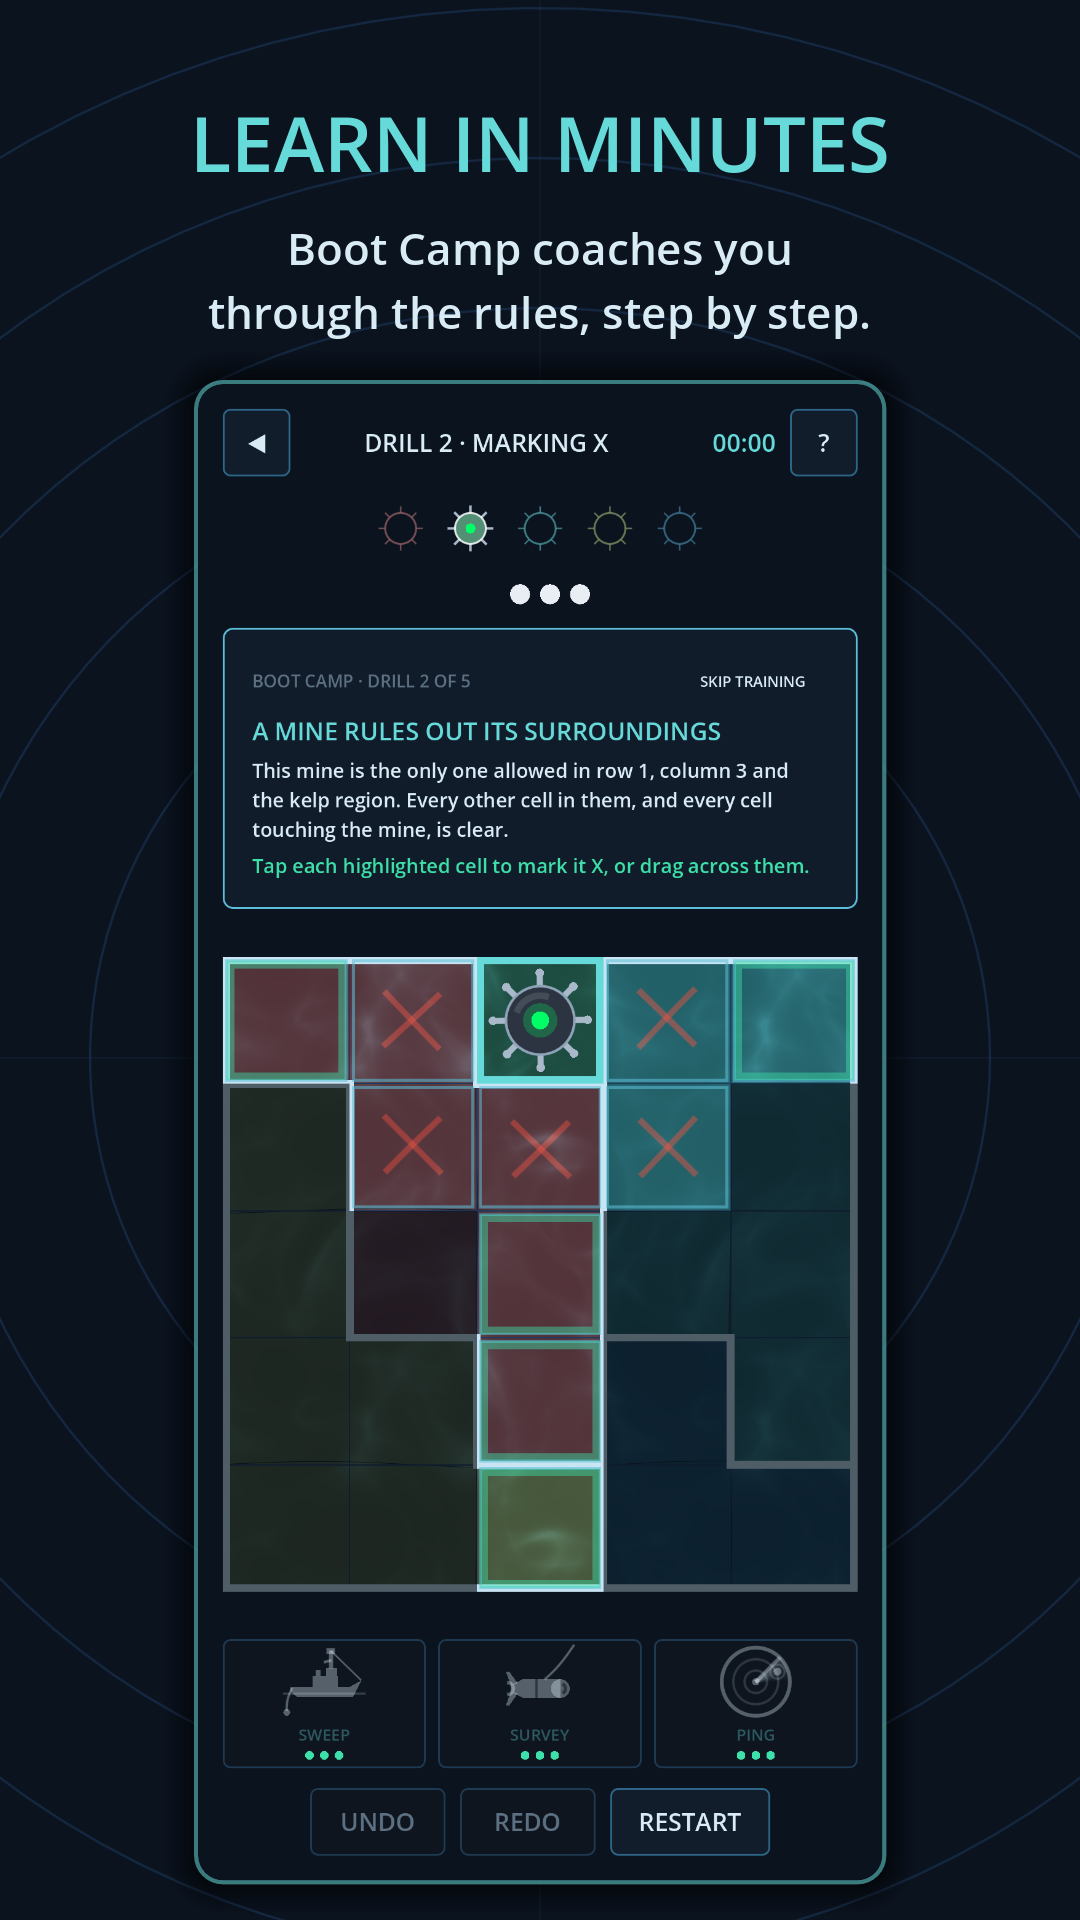
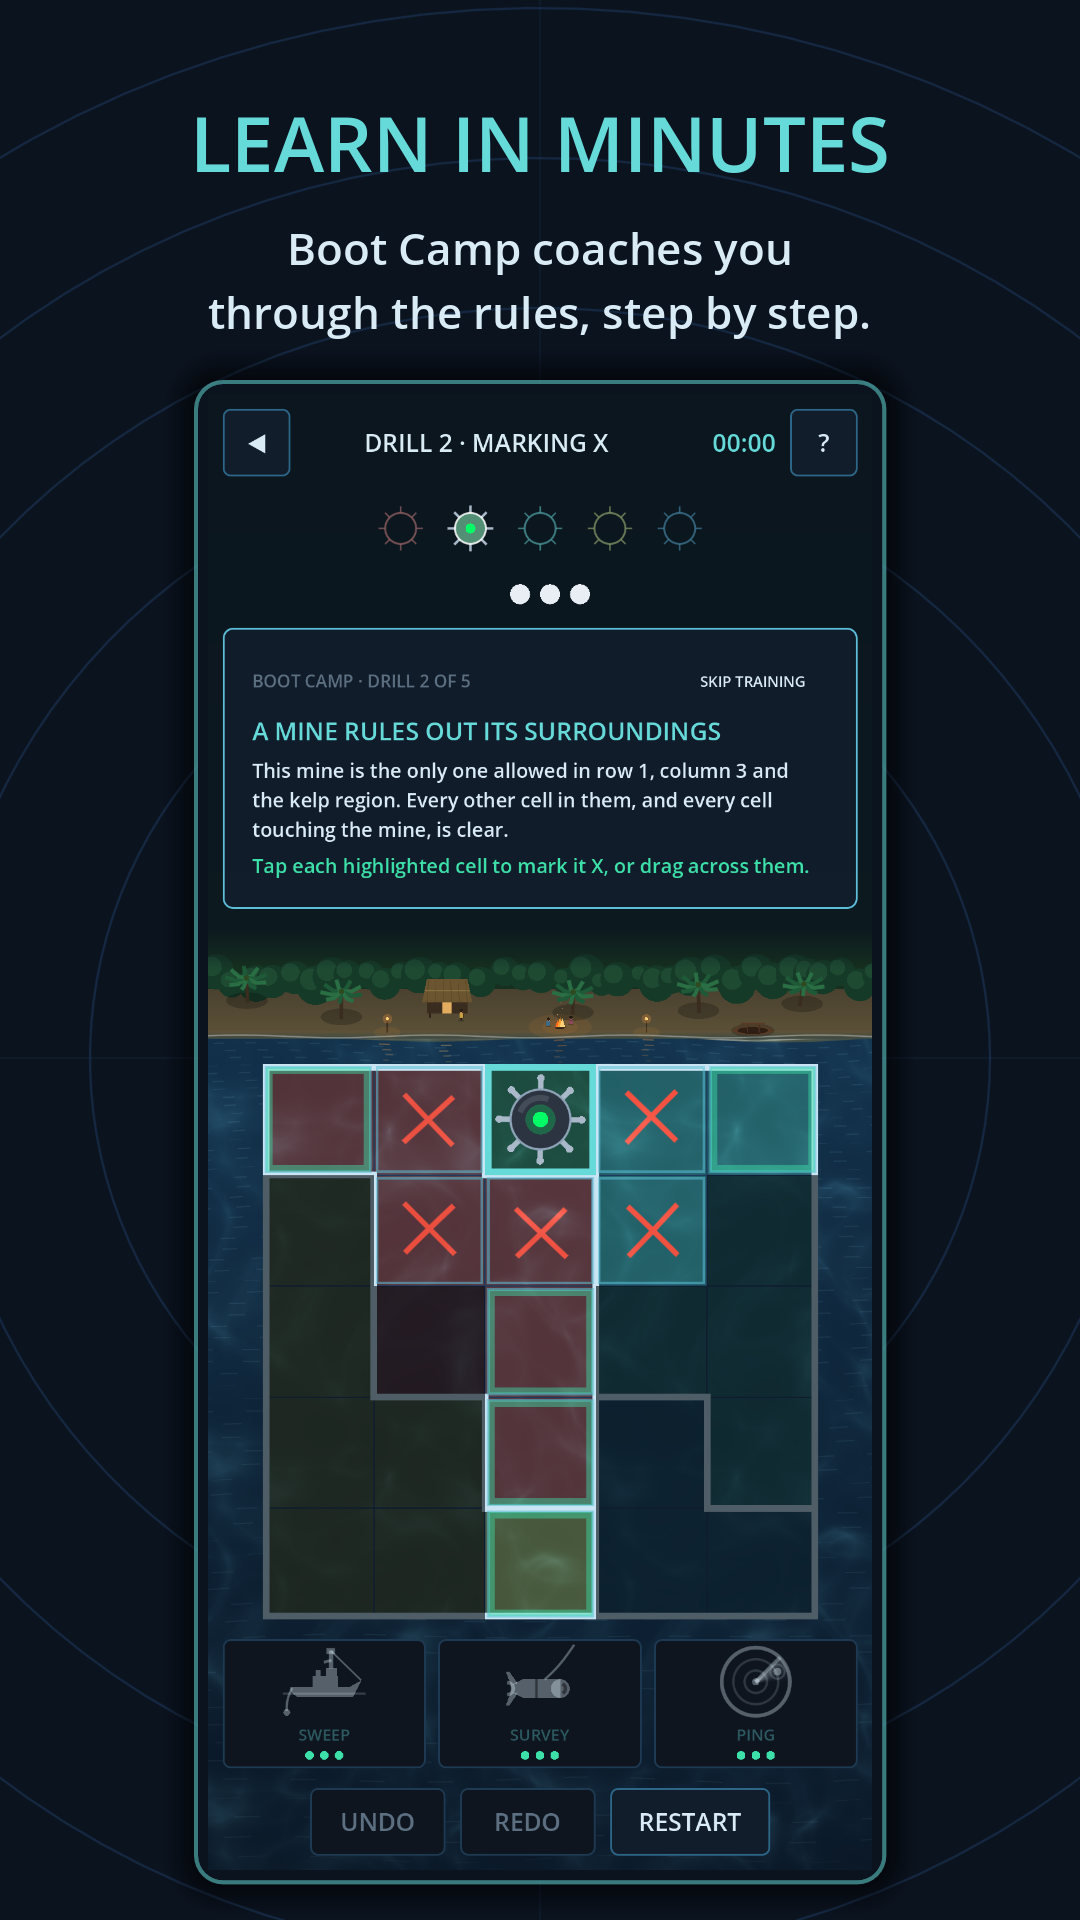
Mineoku: new screenshots and video; scenery, sector bonuses, streak fanfare, options

diff --git a/mineoku/index.html b/mineoku/index.html
@@ -36,7 +36,7 @@
     <h1>Mineoku</h1>
     <p class="meta">A naval minefield logic puzzle for Android. Free on Google Play.</p>
     <p class="actions"><a class="button" href="https://play.google.com/store/apps/details?id=com.baylandblue.mineoku">Get it on Google Play</a>
-    <a class="button secondary" href="https://www.youtube.com/shorts/0QLEgAbAkzE">Watch gameplay</a></p>
+    <a class="button secondary" href="https://www.youtube.com/shorts/_u4G1ZQ0tjI">Watch gameplay</a></p>
   </div>
 </div>
 
@@ -48,7 +48,7 @@ have to guess: each mine can be found by careful deduction.</p>
 <div class="shots">
   <img src="images/screenshot_1.png" alt="Pure logic, no guessing: an 8×8 board mid-solve, with mines placed and cells ruled out" width="1080" height="1920" loading="lazy">
   <img src="images/screenshot_2.png" alt="Stuck? Send a drone: SURVEY explains the next logical step" width="1080" height="1920" loading="lazy">
-  <img src="images/screenshot_3.png" alt="400 levels to clear: the win splash over a cleared board" width="1080" height="1920" loading="lazy">
+  <img src="images/screenshot_3.png" alt="400 levels to clear: the win splash over a cleared board, with ships along the coast" width="1080" height="1920" loading="lazy">
   <img src="images/screenshot_4.png" alt="Learn in minutes: a Boot Camp drill coaching the next move" width="1080" height="1920" loading="lazy">
   <img src="images/screenshot_5.png" alt="Earn three stars: the campaign map with stars earned" width="1080" height="1920" loading="lazy">
   <img src="images/screenshot_6.png" alt="A new board every day: the main menu" width="1080" height="1920" loading="lazy">
@@ -63,8 +63,9 @@ have to guess: each mine can be found by careful deduction.</p>
     <li>every <strong>region</strong> has exactly one mine, and</li>
     <li>no two mines <strong>touch</strong>, not even diagonally.</li>
   </ul>
-  <p>Mark the cells you've ruled out with an X. But careful: put an X on a real mine and it
-  goes off. You have three lives per board.</p>
+  <p>Mark the cells you've ruled out with an X, or drag along a row or column to mark several
+  at once. But careful: put an X on a real mine and it goes off. You have three lives per board.
+  A misplaced mine never costs a life; it just shows up in red when it breaks a rule.</p>
 </div>
 
 <h2>400 levels in five sectors</h2>
@@ -78,15 +79,19 @@ the shallows to the deep.</p>
   <tr><td>Deep Trench</td><td>226–325</td><td>9×9</td></tr>
   <tr><td>Abyssal Plain</td><td>326–400</td><td>10×10</td></tr>
 </table>
+<p>Each sector opens when you finish the one before it. Clearing a sector for the first time
+earns two bonus help charges, which can take you past the usual limit.</p>
 
 <h2>Daily Sonar Op and Free Play</h2>
 <p>A new board every day, the same for every player, growing from 7×7 early in the week to
-10×10 on Sunday, so keep your streak going. Or pick any size from 6×6 to 10×10 in Free Play
+10×10 on Sunday, so keep your streak going: reaching 5, 10, 25, 50 or 100 days in a row
+(and every 25 after that) sets off a fanfare. Or pick any size from 6×6 to 10×10 in Free Play
 for a fresh board whenever you like.</p>
 
 <h2>Learn as you go</h2>
 <ul>
   <li>Boot Camp: five short coached drills teach the rules and the key deductions</li>
+  <li>An illustrated How to Play guide, available from any board</li>
   <li>Earn up to three stars per level by beating par</li>
   <li>Undo and redo, plus optional automatic X marks for the cells a new mine rules out</li>
 </ul>
@@ -97,11 +102,24 @@ drone that shows and explains the next logical step, or <strong>Ping</strong> th
 clear a few safe cells. Helps never cost stars. Each has three charges, a used charge comes back
 12 hours later, and you can watch an optional ad to get one back sooner.</p>
 
-<h2>A living sonar console</h2>
+<h2>A living coastline</h2>
+<p>Every board floats on open sea with a scene along the shore above it: a palm-fringed
+lagoon, a busy container harbor, a city waterfront, a clifftop lighthouse, a carrier battle
+group under way, and a mine countermeasures task force at work. Each sector has its own, the
+Daily changes with the date, and you can pin a favorite in Settings.</p>
 <ul>
   <li>Swaying moored mines with blinking lights and sonar pings</li>
   <li>A convoy sails across every cleared board</li>
   <li>An underwater ambient soundtrack</li>
+</ul>
+
+<h2>Play your way</h2>
+<ul>
+  <li>Color symbols on the regions, for players who find some tints hard to tell apart</li>
+  <li>Turn the board's motion and the water effect off if you prefer a still board</li>
+  <li>Cloud save: sign in to Google Play Games to keep your progress on all your devices</li>
+  <li>In 11 languages: English, Spanish, Portuguese, French, German, Italian, Russian,
+  Japanese, Korean, Chinese and Turkish</li>
 </ul>
 
 <h2>Ads</h2>
